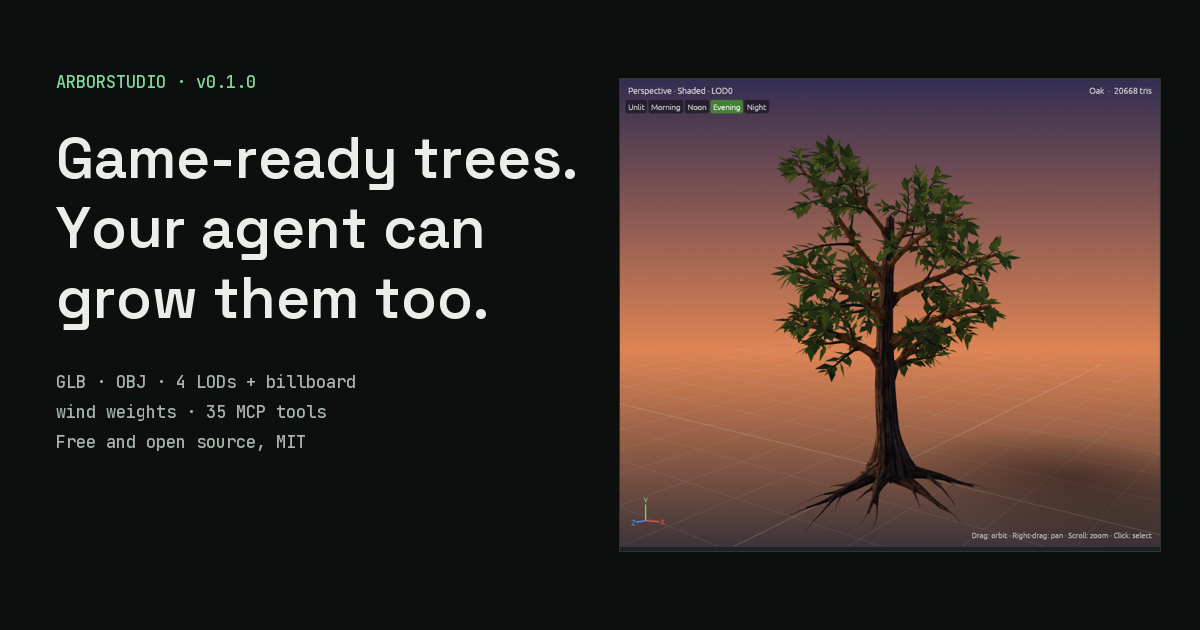
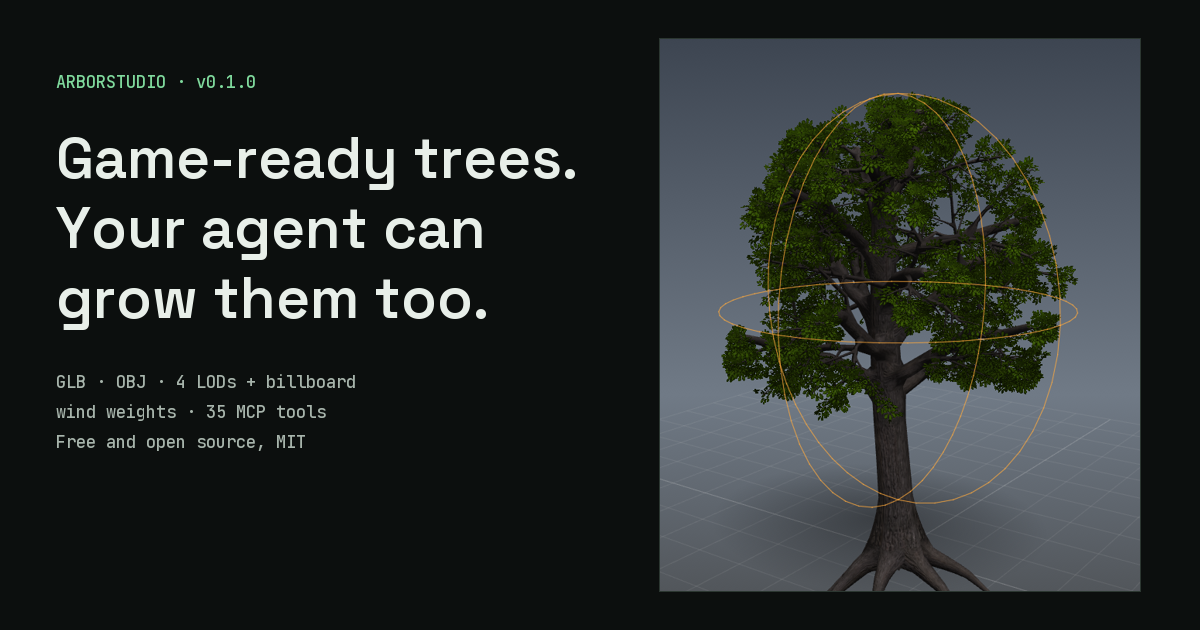
Landing page: hand-authored oak in the hero, phone layout fixes
The hero shows the oak screenshot supplied by the maintainer (home-folder
path shortened to the file name), with measured counts and timing. Grids
use minmax(0, 1fr) on narrow screens so code blocks scroll inside their
boxes; the comparison table and download rows fit 320 px wide phones.

diff --git a/site/site.css b/site/site.css
@@ -64,13 +64,9 @@ h1, h2, h3, p, figure, blockquote, dl, dd { margin: 0; }
 .for { font: var(--text-body); color: var(--ink-100); padding-left: var(--space-3); border-left: 2px solid var(--forest-500); }
 .cta { display: flex; flex-direction: column; align-items: flex-start; gap: var(--space-3); margin-top: var(--space-4); }
 .cta__fact { font: var(--text-body-sm); color: var(--ink-300); }
-.hero__shot { align-self: start; margin-top: var(--space-6); width: 1100px; }
-.frame { border: 1px solid var(--line-200); border-right: 0; border-radius: var(--radius-lg) 0 0 var(--radius-lg); overflow: hidden; box-shadow: var(--shadow-lift); background: #1c1f1e; }
-.frame__bar { display: flex; gap: 8px; height: 28px; align-items: center; padding-left: 12px; background: #252827; border-bottom: 1px solid #0d0f0e; }
-.frame__bar i { width: 11px; height: 11px; border-radius: 50%; background: #ff5f57; }
-.frame__bar i:nth-child(2) { background: #febc2e; }
-.frame__bar i:nth-child(3) { background: #28c840; }
-.hero__shot figcaption { margin-top: var(--space-3); font: var(--text-body-sm); color: var(--ink-300); }
+.hero__shot { align-self: start; margin-top: calc(-1 * var(--space-4)); margin-left: calc(-1 * var(--space-8)); width: 1180px; }
+.hero__shot img { width: 100%; height: auto; }
+.hero__shot figcaption { margin-top: -3.4%; padding-left: 3.2%; font: var(--text-body-sm); color: var(--ink-300); }
 sup a { text-decoration: none; font: 500 11px/1 var(--font-mono); }
 
 /* ---------- sections */
@@ -162,10 +158,10 @@ sup a { text-decoration: none; font: 500 11px/1 var(--font-mono); }
 
 /* ---------- narrower screens */
 @media (max-width: 1080px) {
-  .hero { grid-template-columns: 1fr; padding-right: 0; }
+  .hero { grid-template-columns: minmax(0, 1fr); padding-right: 0; }
   .hero__text { padding-right: var(--space-16); padding-bottom: 0; }
-  .hero__shot { width: auto; }
-  .output, .session, .dl { grid-template-columns: 1fr; }
+  .hero__shot { width: auto; margin-left: calc(-1 * var(--space-3)); margin-top: var(--space-8); }
+  .output, .session, .dl { grid-template-columns: minmax(0, 1fr); }
 }
 @media (max-width: 760px) {
   .wrap { padding-left: var(--space-6); padding-right: var(--space-6); }
@@ -175,12 +171,17 @@ sup a { text-decoration: none; font: 500 11px/1 var(--font-mono); }
   .top__links a:not(:last-child) { display: none; }
   .section { padding-top: var(--space-16); }
   .lods { grid-template-columns: repeat(3, 1fr); }
-  .controls, .fit { grid-template-columns: 1fr; }
+  .controls, .fit { grid-template-columns: minmax(0, 1fr); }
   .controls__panel { max-width: 300px; }
   .timing { min-width: 0; width: 100%; }
-  .compare tbody th { width: auto; }
-  .files a { grid-template-columns: 1fr auto; }
-  .files__name { grid-column: 1 / -1; }
+  .compare { table-layout: fixed; }
+  .compare th, .compare td { padding-right: var(--space-3); font-size: 14px; line-height: 21px; overflow-wrap: anywhere; }
+  .compare tbody th { width: 28%; }
+  .compare td { width: 36%; }
+  .files a { grid-template-columns: 1fr auto; row-gap: 2px; }
+  .files__os { grid-row: 1; grid-column: 1; }
+  .files__size { grid-row: 1; grid-column: 2; }
+  .files__name { grid-row: 2; grid-column: 1 / -1; }
   .files__note { margin-left: 0; }
   .foot nav { margin-left: 0; }
 }

diff --git a/site/index.html b/site/index.html
@@ -9,7 +9,7 @@
 <meta property="og:title" content="ArborStudio: game-ready trees your agent can grow too">
 <meta property="og:description" content="GLB and OBJ with four LODs, a billboard and wind weights. 35 MCP tools. Free and open source, MIT.">
 <meta property="og:image" content="https://sandboxly.github.io/arbor-studio/images/og.png">
-<meta property="og:image:alt" content="ArborStudio v0.1.0: Game-ready trees. Your agent can grow them too. Next to the text, an oak in the editor's viewport in evening light.">
+<meta property="og:image:alt" content="ArborStudio v0.1.0: Game-ready trees. Your agent can grow them too. Next to the text, a hand-authored oak in the editor's viewport.">
 <meta name="twitter:card" content="summary_large_image">
 <link rel="icon" href="docs/images/app-icon.png">
 <link rel="stylesheet" href="site.css">
@@ -46,11 +46,11 @@
     <p><a class="more" href="docs/agents.html">Set up the MCP server →</a></p>
   </div>
   <figure class="hero__shot">
-    <div class="frame">
-      <div class="frame__bar" aria-hidden="true"><i></i><i></i><i></i></div>
-      <img src="images/editor-oak.jpg" width="1440" height="900" alt="The ArborStudio editor: the generator stack on the left (trunk, roots, main branches, twigs, leaves), an oak in evening light in the viewport, and the settings of the selected branch generator on the right, such as Count per parent, Phyllotaxis, Gravity and Taper.">
-    </div>
-    <figcaption>The Oak preset: 20,668 triangles at LOD0, grown in 17 ms.<sup><a href="#m1" id="r1">1</a></sup></figcaption>
+    <picture>
+      <source type="image/webp" srcset="images/editor-oak-1000.webp 1000w, images/editor-oak.webp 1860w" sizes="(max-width: 1080px) 100vw, 1100px">
+      <img src="images/editor-oak.jpg" width="1860" height="1192" fetchpriority="high" alt="The ArborStudio editor with a hand-authored oak: a full, rounded crown on a thick trunk with spreading surface roots, lit at noon. The trunk generator is selected; an orange ellipsoid outlines the crown, and the right panel shows its settings, such as Height 21.0 m, Gravity, Taper and Buttress flare.">
+    </picture>
+    <figcaption>An oak authored in ArborStudio: 744 stems, 15,390 leaves, 119,996 triangles at LOD0, grown in 96 ms.<sup><a href="#m1" id="r1">1</a></sup></figcaption>
   </figure>
 </section>
 
@@ -227,7 +227,7 @@ cargo build --release</code></pre>
       <p>The help has 22 pages with pictures, from a first tree to the full parameter reference. <kbd>F1</kbd> in the app opens it. <a class="more" href="docs/">Read the docs →</a></p>
     </div>
   </div>
-  <p class="notes" id="m1"><sup>1</sup> Measured with the v0.1.0 release build on an Apple M2 Max, median of 20 seeds per preset, timed through the MCP server. LOD0 includes growing the skeleton and building the mesh; all 5 levels includes rendering the billboard atlas.</p>
+  <p class="notes" id="m1"><sup>1</sup> Measured with the v0.1.0 release build on an Apple M2 Max, median of 20 runs for the oak above and of 20 seeds per preset in the table, timed through the MCP server. LOD0 includes growing the skeleton and building the mesh; all 5 levels includes rendering the billboard atlas.</p>
 </section>
 
 </main>

diff --git a/site/copy.md b/site/copy.md
@@ -25,7 +25,8 @@ the source or the docs in this repository.
 - Primary CTA: Download for macOS (12.4 MB) — the label follows the visitor's system: Windows (4.8 MB), Linux (6.2 MB). (from release v0.1.0)
 - Next to CTA: Free and open source. MIT licence. Source on GitHub.
 - Secondary (text link): Set up the MCP server →
-- Screenshot caption: The Oak preset: 20,668 triangles at LOD0, grown in 17 ms. (measured)
+- Screenshot: a hand-authored oak supplied by the person (home-folder path in the log and status bar shortened to the file name).
+- Screenshot caption: An oak authored in ArborStudio: 744 stems, 15,390 leaves, 119,996 triangles at LOD0, grown in 96 ms. (measured, median of 20 runs)
 
 ## 1. An agent session, start to finish
 
